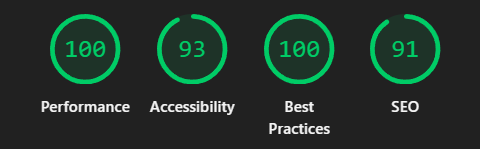
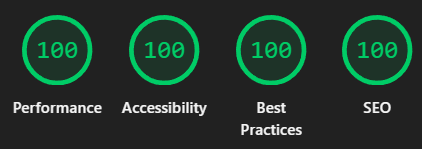
docs: update README.md

diff --git a/README.md b/README.md
@@ -17,6 +17,7 @@ Feel free to contact me or add issue if you see any bug or if you had suggestion
 [![CSS](https://img.shields.io/badge/CSS-639?logo=css&logoColor=fff)](#)
 [![Tailwind CSS](https://img.shields.io/badge/Tailwind%20CSS-%2338B2AC.svg?logo=tailwind-css&logoColor=white)](#)
 [![JavaScript](https://img.shields.io/badge/JavaScript-F7DF1E?logo=javascript&logoColor=000)](#)
+[![pnpm](https://img.shields.io/badge/pnpm-F69220?logo=pnpm&logoColor=fff)](#)
 
 ## Scripts
 
@@ -35,6 +36,8 @@ Feel free to contact me or add issue if you see any bug or if you had suggestion
 > We have a `gitCommands.js` file in `constants` folder which has git commands datas.
 
 > In `main.js` file we render codes based on `gitCommands.js` datas.
+
+> Package manager of this project is `pnpm`.
 
 ## Preview
 
